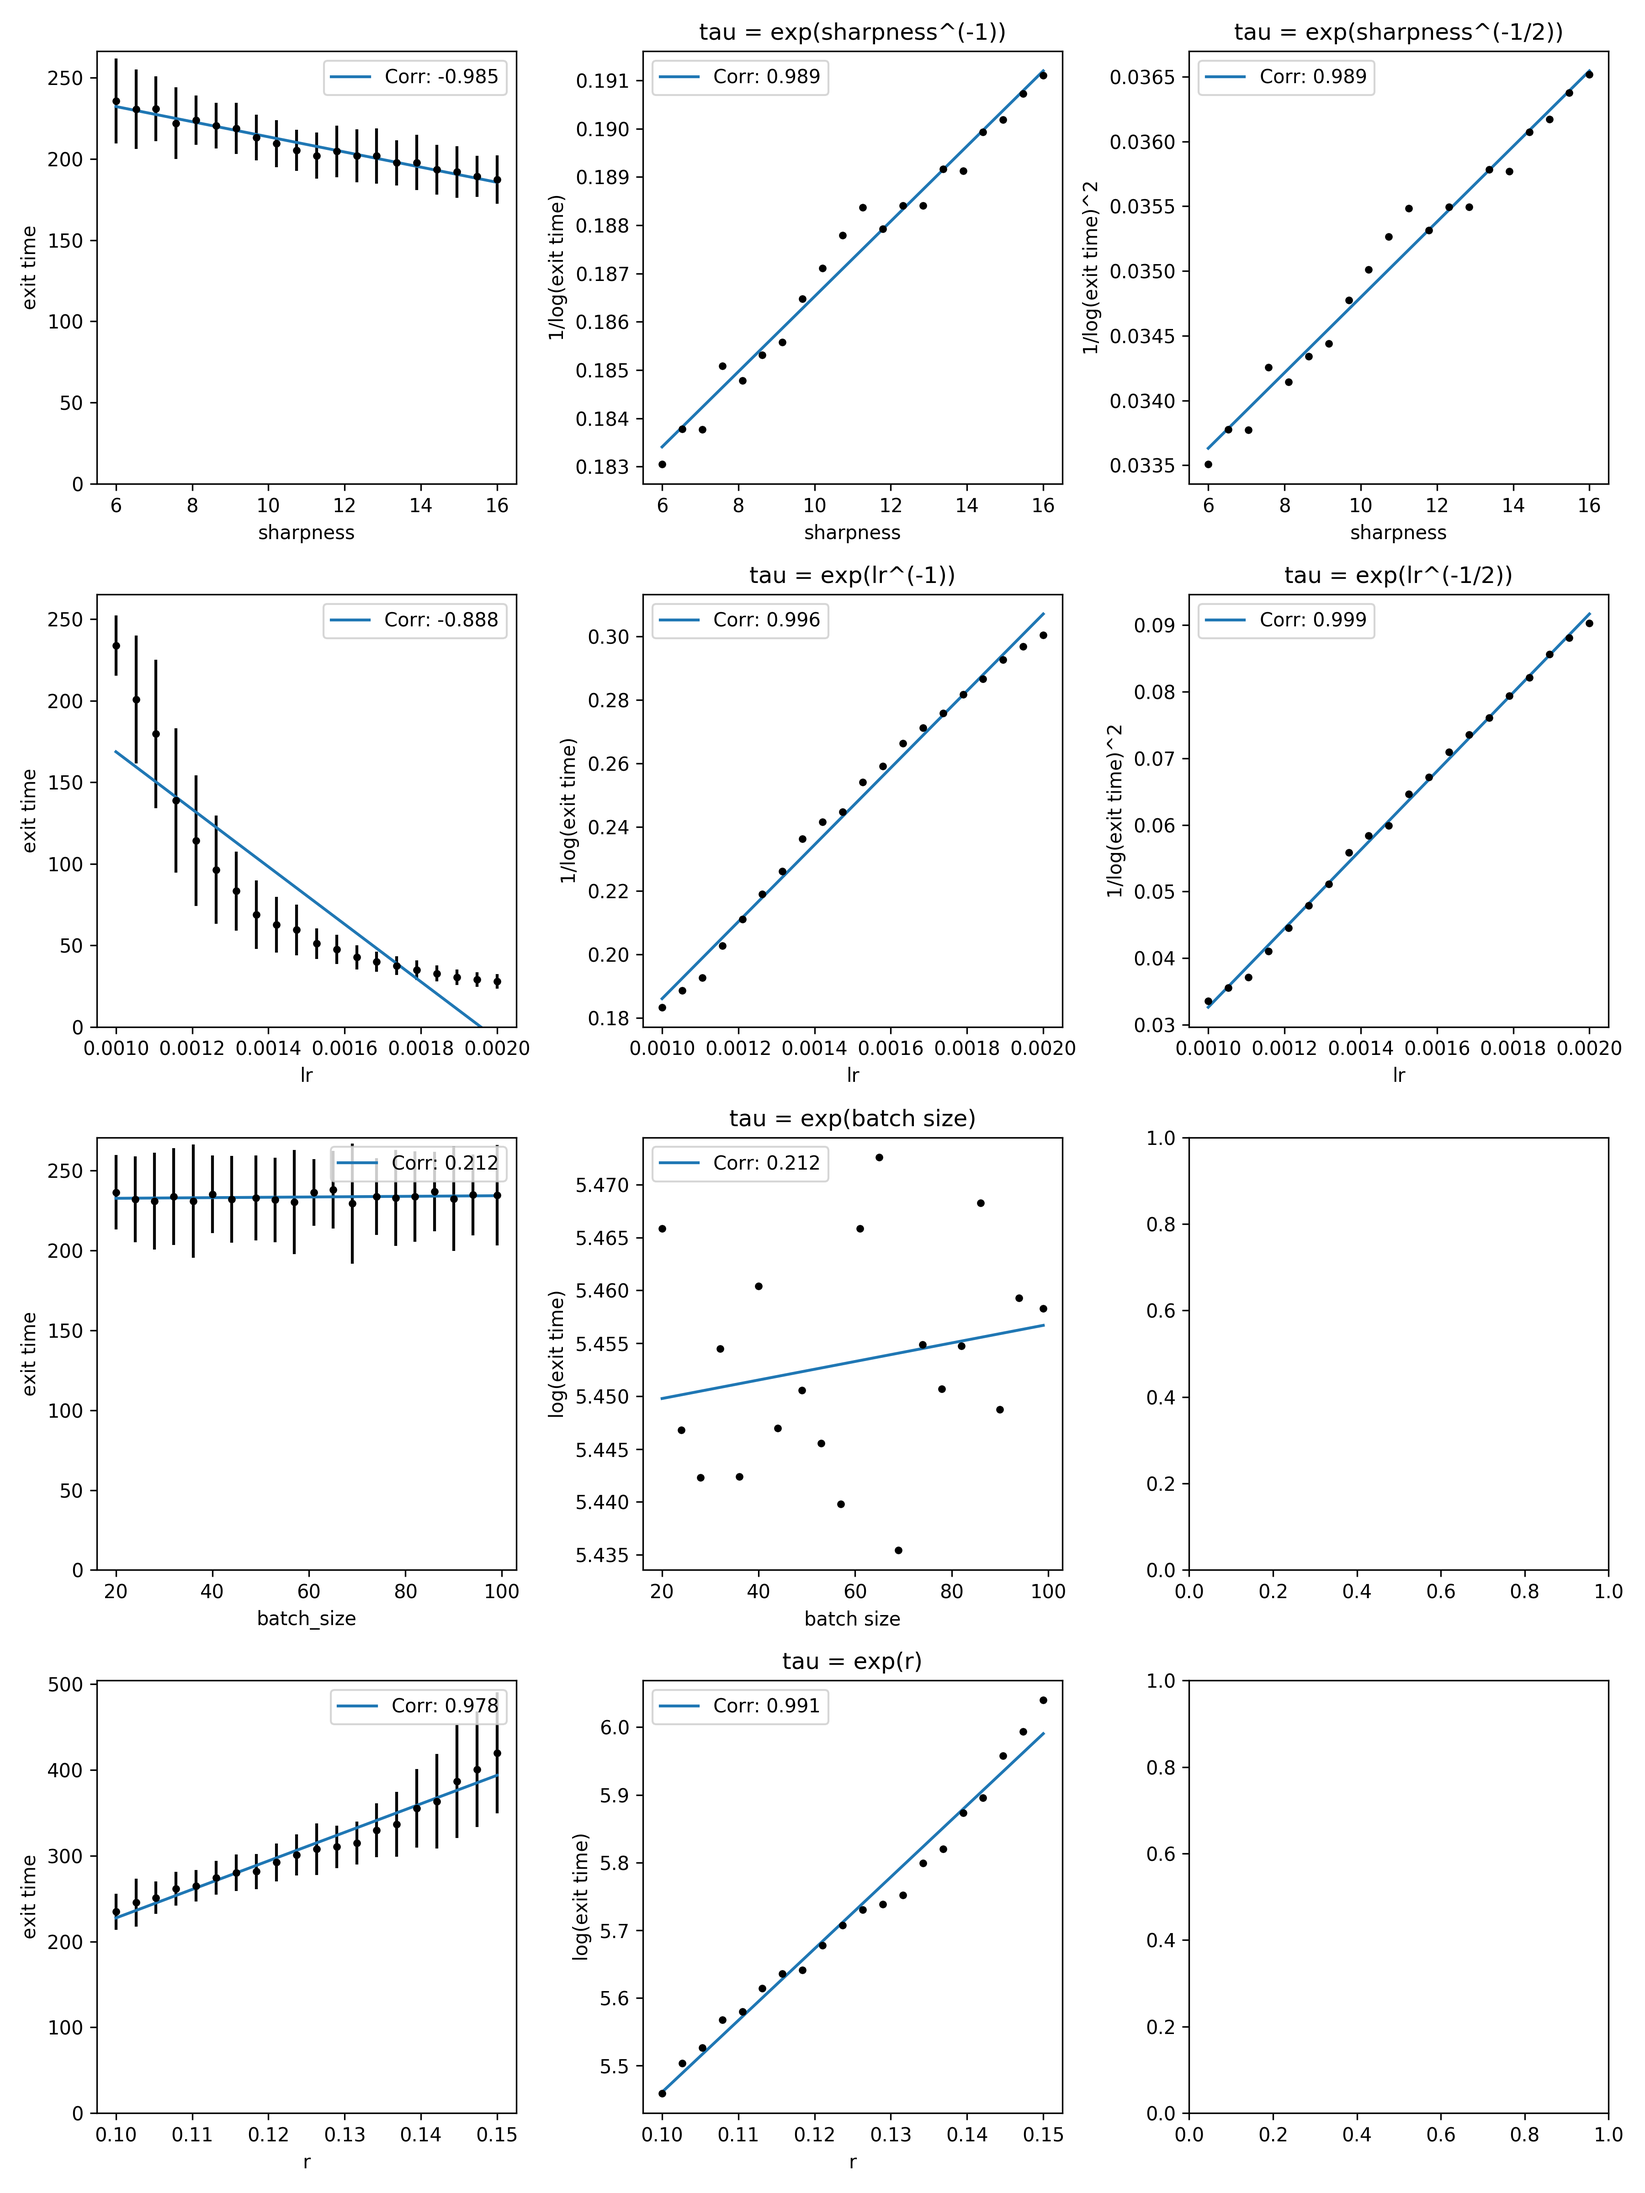
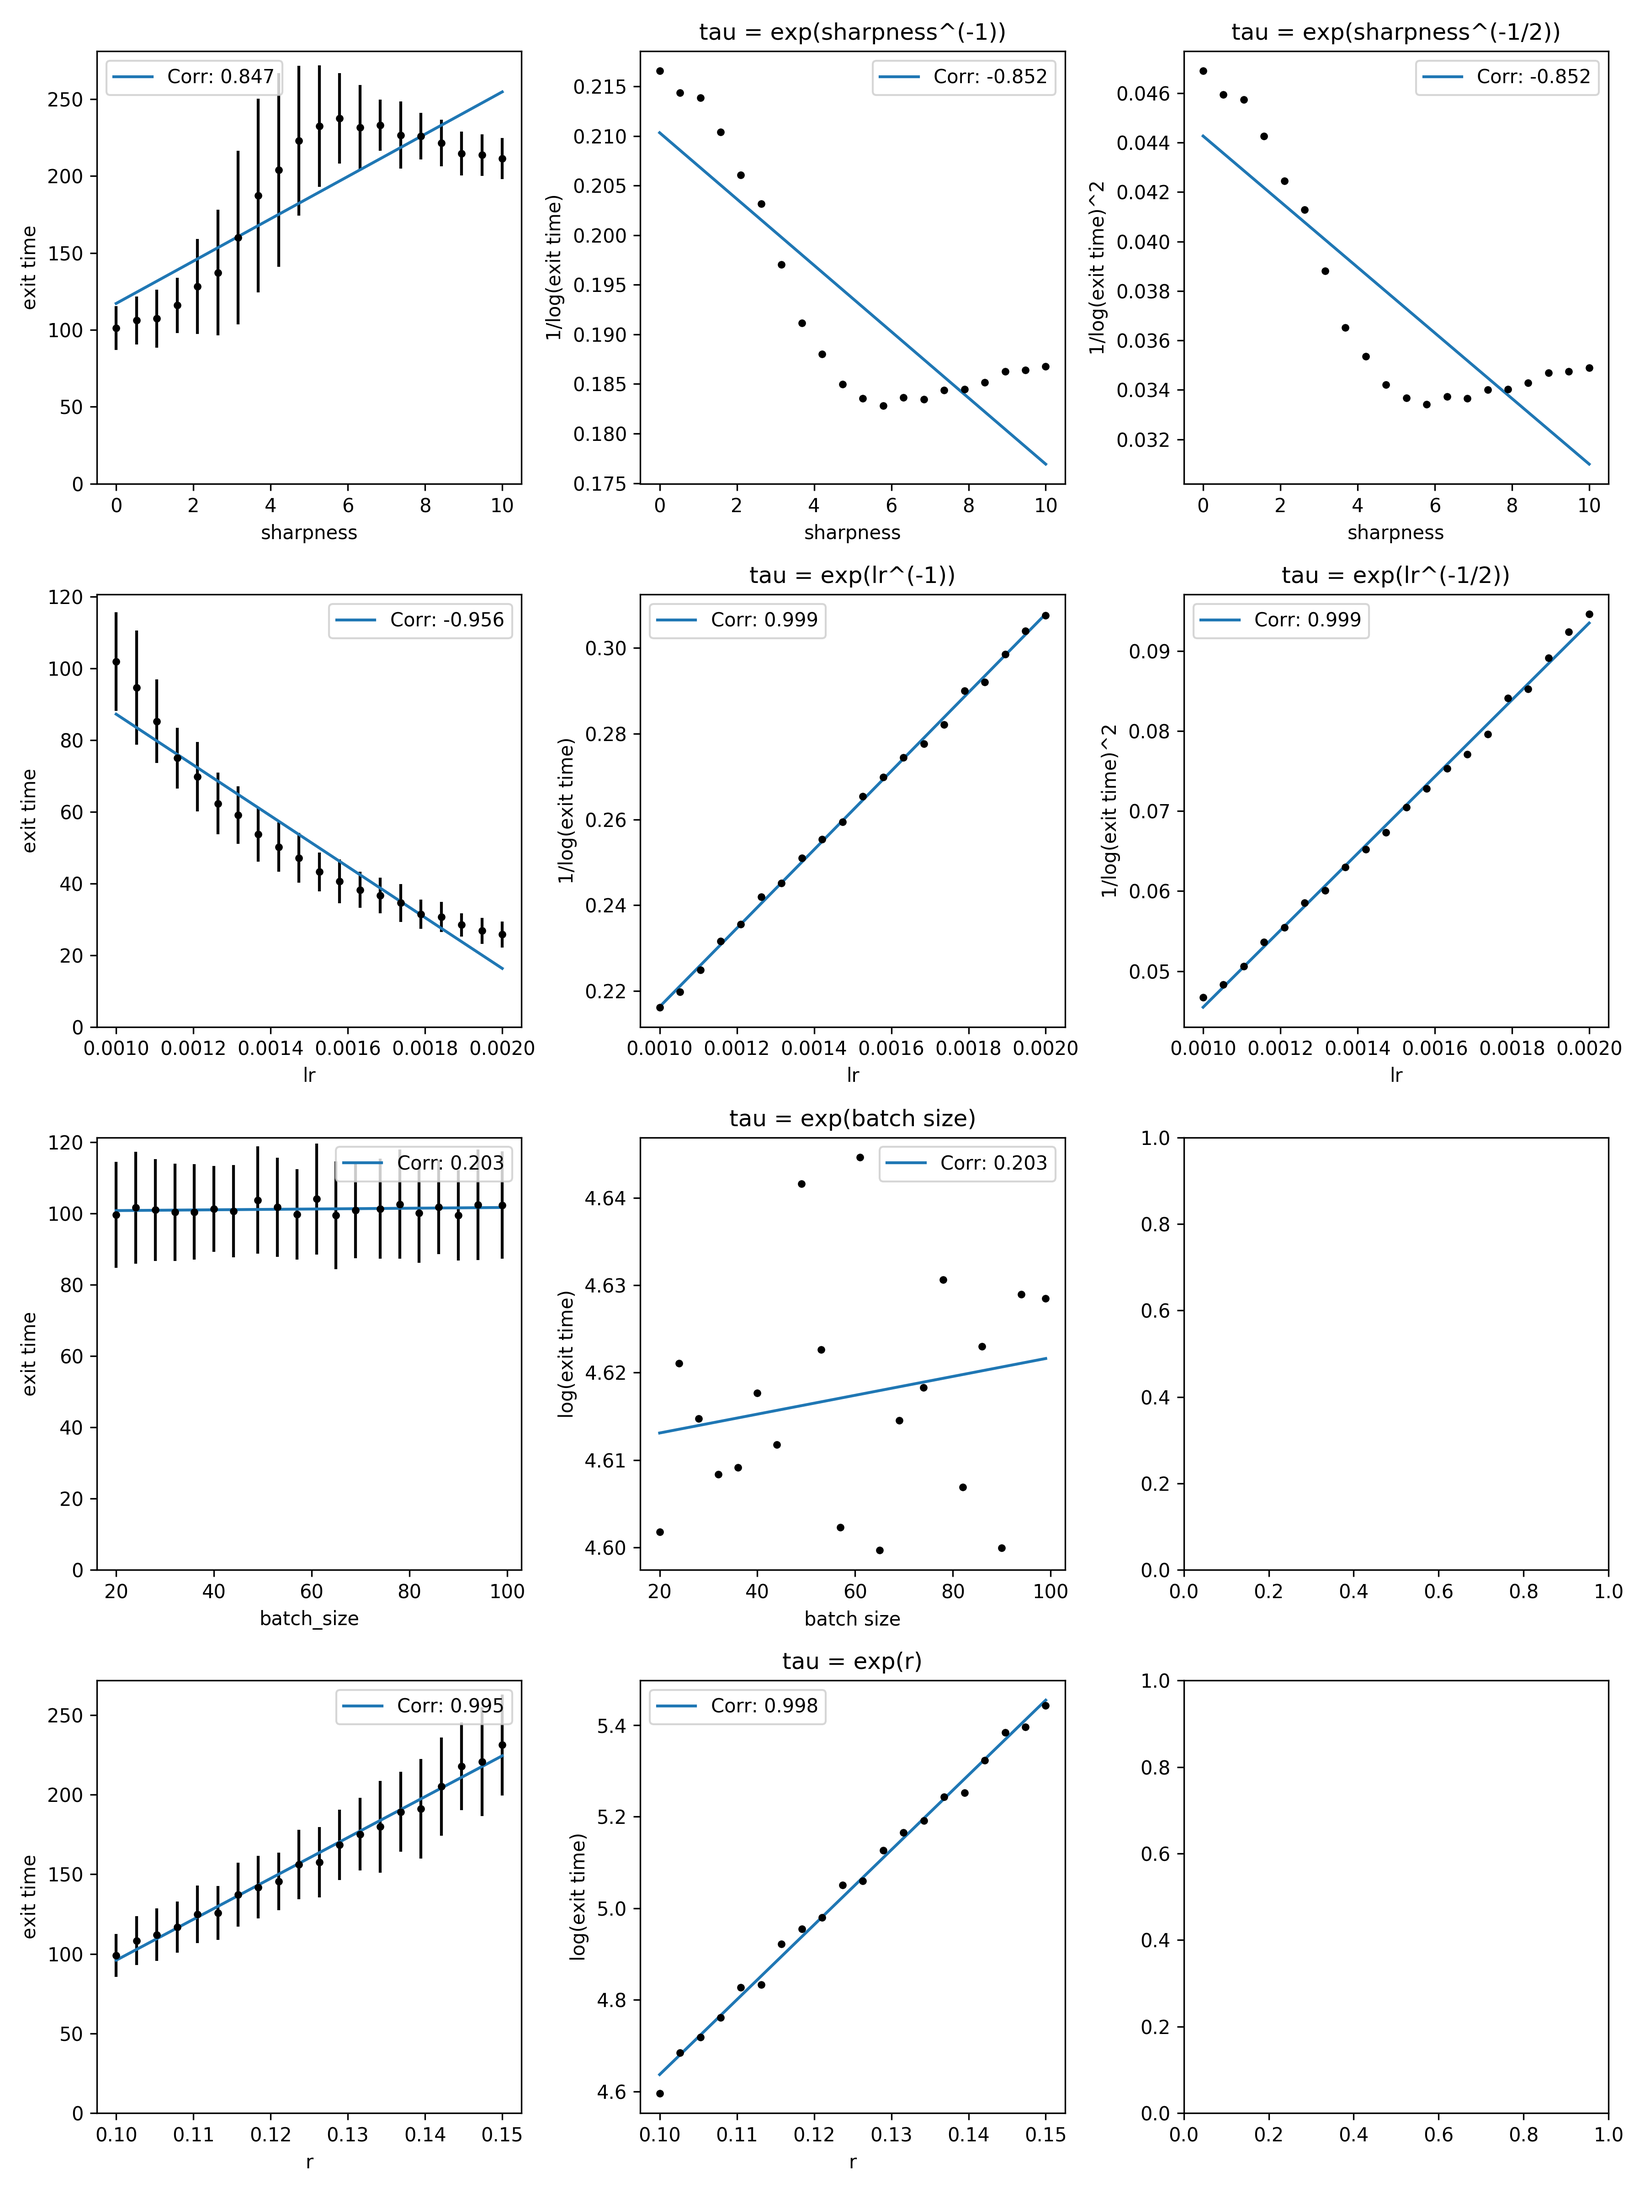
update

diff --git a/exit_time.py b/exit_time.py
@@ -320,7 +320,7 @@ def main():
     config['core'] = 0 
     config['seed'] = -1
     config['num_dim'] = 100
-    config['sharpness_min'] = 6
+    config['sharpness_min'] = 0
     config['sharpness_interval'] = 10 
     config['r_min'] = 0.1 
     config['r_interval'] = 0.05
